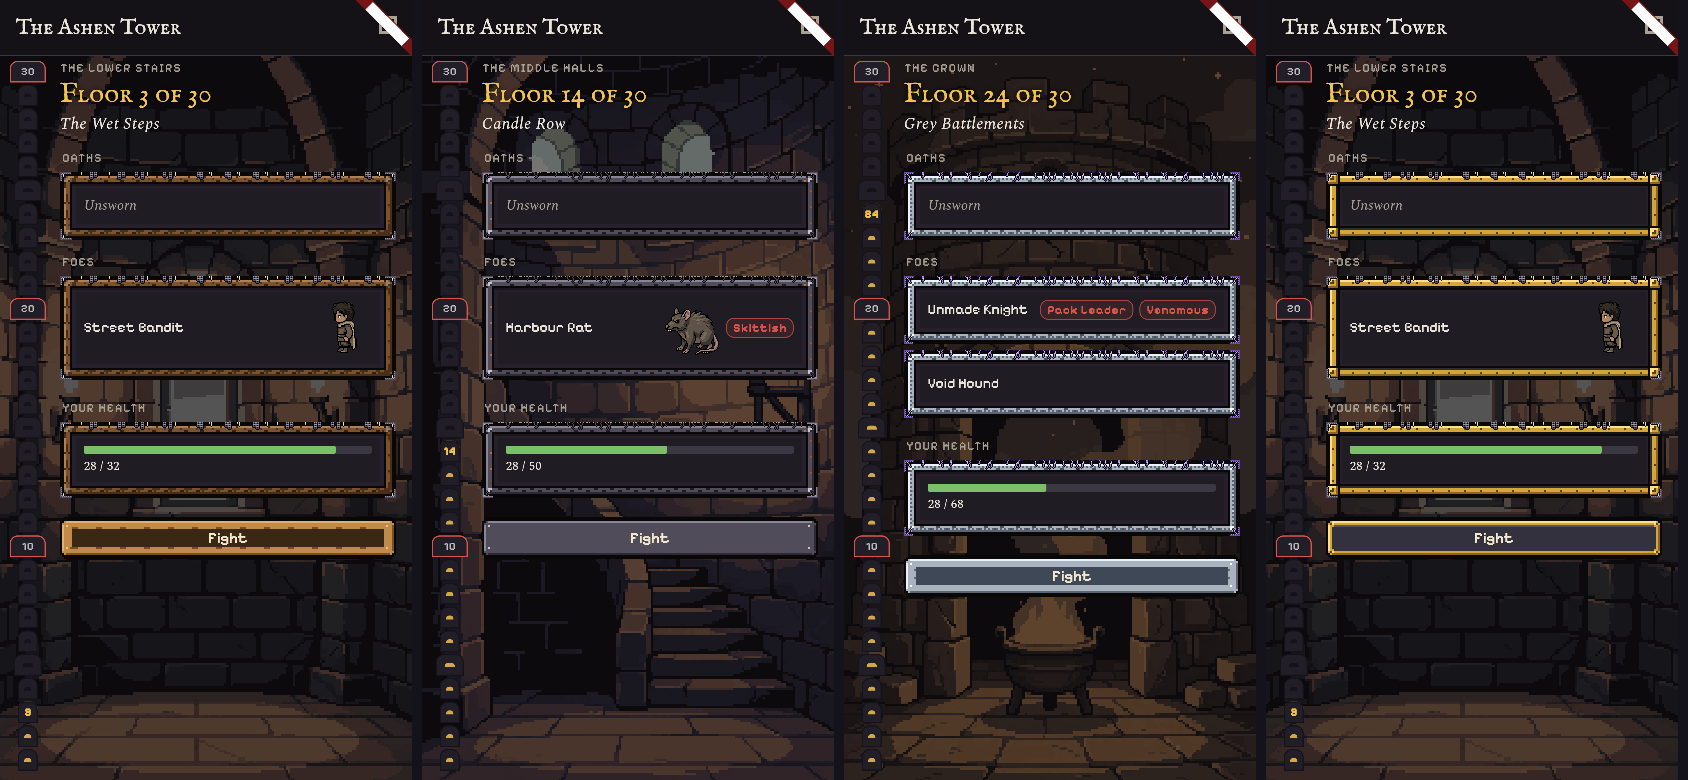
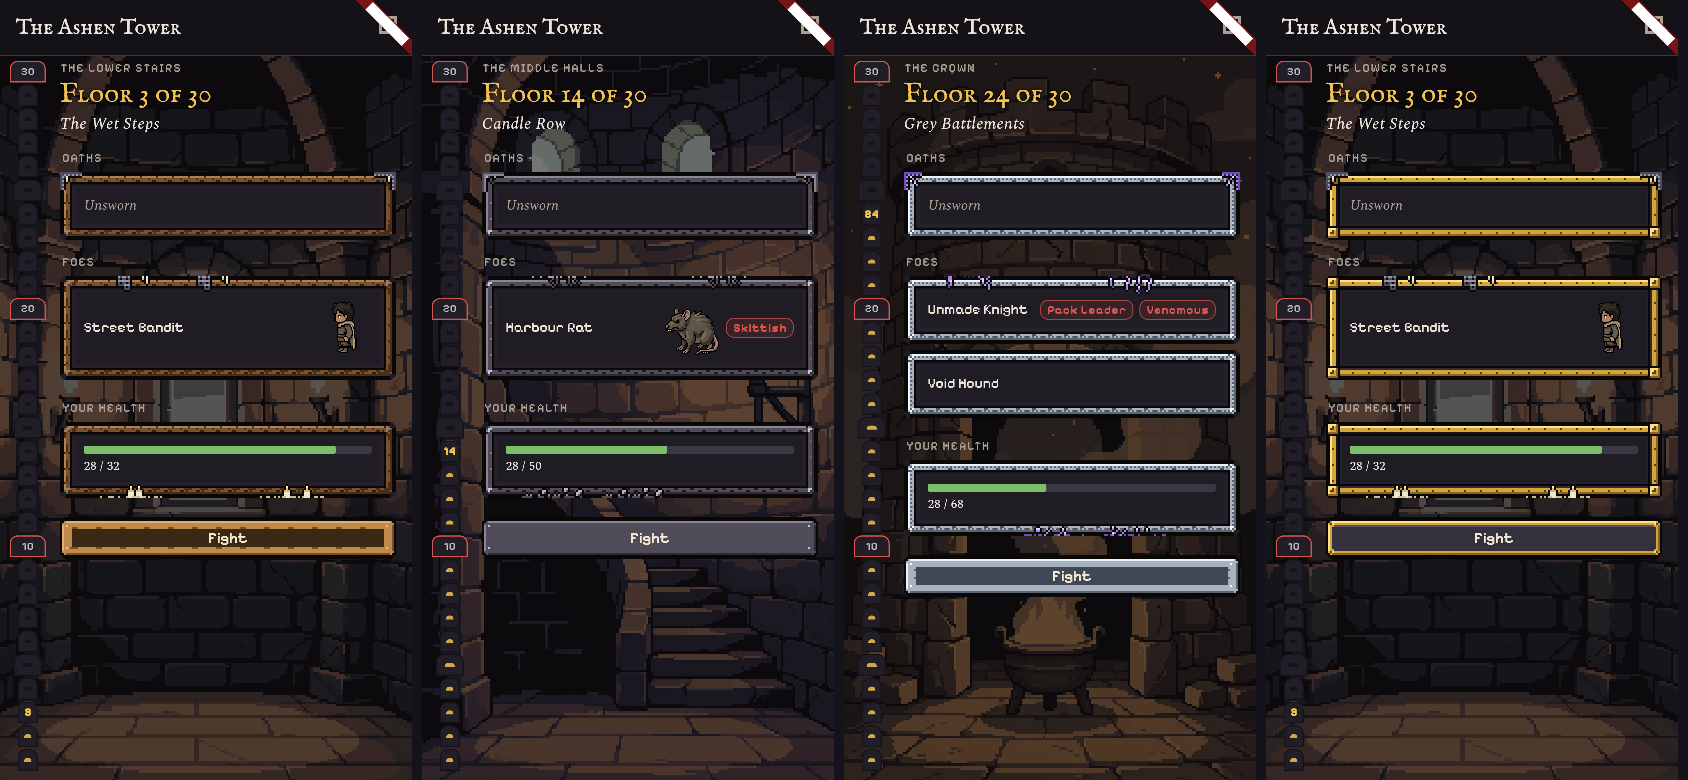
Tower decorations: 2x, a few pieces per screen (corners on the oaths, top pieces on the first foe, bottom pieces on the health)
Claude-Session: https://claude.ai/code/session_019ETFw2Y7wpHSXWG5mmACty

diff --git a/lib/theme/frame_style.dart b/lib/theme/frame_style.dart
@@ -83,12 +83,17 @@ class FrameStyle extends ThemeExtension<FrameStyle> {
     this.env = EnvDecor.none,
     this.compactScale = 1,
     this.largeScale = 2,
+    this.seed = 0,
   });
 
   final FrameMaterial material;
   final EnvDecor env;
   final double compactScale;
   final double largeScale;
+
+  /// Picks which slots the decorations stand in (the Tower's floor), so they
+  /// are stable for a floor and differ from one to the next.
+  final int seed;
 
   static FrameStyle of(BuildContext context) =>
       Theme.of(context).extension<FrameStyle>() ?? const FrameStyle();
@@ -99,12 +104,14 @@ class FrameStyle extends ThemeExtension<FrameStyle> {
     EnvDecor? env,
     double? compactScale,
     double? largeScale,
+    int? seed,
   }) =>
       FrameStyle(
         material: material ?? this.material,
         env: env ?? this.env,
         compactScale: compactScale ?? this.compactScale,
         largeScale: largeScale ?? this.largeScale,
+        seed: seed ?? this.seed,
       );
 
   @override
@@ -182,6 +189,32 @@ abstract final class FrameImages {
   }
 }
 
+/// Which decorations a frame wears: the four corner pieces, a number of
+/// top-edge pieces hanging from the top (-1: the old fringe all along it) and
+/// a number of bottom-edge pieces rising from the bottom. A screen gives each
+/// panel its own share, so a few panels are decorated and the rest stay clean.
+@immutable
+class EnvParts {
+  const EnvParts({this.corners = false, this.top = 0, this.bottom = 0});
+
+  static const EnvParts none = EnvParts();
+  static const EnvParts fringe = EnvParts(corners: true, top: -1);
+
+  final bool corners;
+  final int top;
+  final int bottom;
+
+  @override
+  bool operator ==(Object other) =>
+      other is EnvParts &&
+      other.corners == corners &&
+      other.top == top &&
+      other.bottom == bottom;
+
+  @override
+  int get hashCode => Object.hash(corners, top, bottom);
+}
+
 /// A frame: the piece's 9-slice drawn around the box, corners as they are,
 /// edges tiled, then the environment's decorations on the top edge and
 /// corners. The fill is the caller's (`Card.color`, `ShapeDecoration.color`).
@@ -195,6 +228,7 @@ class FrameBorder extends OutlinedBorder {
     this.fillCenter = false,
     this.envPixel = 1,
     this.plate,
+    this.envParts = EnvParts.fringe,
   }) : super(side: BorderSide.none);
 
   final FramePiece piece;
@@ -214,6 +248,9 @@ class FrameBorder extends OutlinedBorder {
 
   /// Picks the decoration variants, so a panel never changes between frames.
   final int seed;
+
+  /// Which of the decorations this frame wears.
+  final EnvParts envParts;
 
   /// A flat colour laid on the middle of a button over the art, so its label
   /// reads on the grain of a wood button (no art is redrawn).
@@ -341,26 +378,61 @@ class FrameBorder extends OutlinedBorder {
     ui.Image? sprite(String part, int variant) =>
         FrameImages.image('env', '${env.file}_${part}_${variant % 3}');
 
-    // The top edge: 32 x 10 tiles side by side overlapping by 4 px, the
-    // variant cycling; kept clear of the corners (16 px each side).
+    // The span the top and bottom pieces may stand in, clear of the corners.
     final cornerW = 16 * k;
     final from = rect.left + cornerW;
     final to = rect.right - cornerW;
-    if (to - from > 24 * k) {
-      var i = 0;
-      for (var x = from; x < to - 0.01; x += 28 * k, i++) {
-        final img = sprite('top', _hash(i));
-        if (img == null) continue;
-        final w = (to - x).clamp(0.0, 32 * k);
-        canvas.drawImageRect(
-          img,
-          Rect.fromLTWH(0, 0, w / k, img.height.toDouble()),
-          Rect.fromLTWH(x, rect.top, w, img.height * k),
-          paint,
-        );
+
+    if (envParts.top == -1) {
+      // The fringe: 32 x 10 tiles side by side overlapping by 4 px.
+      if (to - from > 24 * k) {
+        var i = 0;
+        for (var x = from; x < to - 0.01; x += 28 * k, i++) {
+          final img = sprite('top', _hash(i));
+          if (img == null) continue;
+          final w = (to - x).clamp(0.0, 32 * k);
+          canvas.drawImageRect(
+            img,
+            Rect.fromLTWH(0, 0, w / k, img.height.toDouble()),
+            Rect.fromLTWH(x, rect.top, w, img.height * k),
+            paint,
+          );
+        }
       }
+    } else {
+      // A few whole pieces, in slots picked by the seed (so a panel never
+      // changes between frames): top ones hang from the top edge, bottom
+      // ones rise from the bottom edge.
+      void pieces(String part, int count, int salt, bool bottom) {
+        final slotW = 40 * k;
+        final slots = ((to - from) / slotW).floor();
+        if (count <= 0 || slots < 1) return;
+        final taken = <int>{};
+        for (var n = 0; n < count && taken.length < slots; n++) {
+          var slot = _hash(salt + n * 7) % slots;
+          while (taken.contains(slot)) {
+            slot = (slot + 1) % slots;
+          }
+          taken.add(slot);
+          final img = sprite(part, _hash(salt + 50 + n));
+          if (img == null) continue;
+          final x = from + slot * slotW + (slotW - 32 * k) / 2;
+          final h = img.height * k;
+          canvas.drawImageRect(
+            img,
+            Rect.fromLTWH(0, 0, img.width.toDouble(), img.height.toDouble()),
+            Rect.fromLTWH(
+                x, bottom ? rect.bottom - h : rect.top, img.width * k, h),
+            paint,
+          );
+        }
+      }
+
+      pieces('top', envParts.top, 200, false);
+      pieces('bottom', envParts.bottom, 300, true);
     }
     // The corners: the top-left sprite, mirrored for the others.
+    if (!envParts.corners) return;
     for (var c = 0; c < 4; c++) {
       final img = sprite('corner', _hash(100 + c));
       if (img == null) continue;
@@ -387,6 +459,7 @@ class FrameBorder extends OutlinedBorder {
     int? seed,
     bool? fillCenter,
     Color? plate,
+    EnvParts? envParts,
   }) =>
       FrameBorder(
         piece: piece ?? this.piece,
@@ -397,6 +470,7 @@ class FrameBorder extends OutlinedBorder {
         fillCenter: fillCenter ?? this.fillCenter,
         envPixel: envPixel,
         plate: plate ?? this.plate,
+        envParts: envParts ?? this.envParts,
       );
 
   @override
@@ -408,9 +482,10 @@ class FrameBorder extends OutlinedBorder {
       other.pixel == pixel &&
       other.seed == seed &&
       other.fillCenter == fillCenter &&
-      other.plate == plate;
+      other.plate == plate &&
+      other.envParts == envParts;
 
   @override
-  int get hashCode =>
-      Object.hash(piece, material, env, pixel, seed, fillCenter, plate);
+  int get hashCode => Object.hash(
+      piece, material, env, pixel, seed, fillCenter, plate, envParts);
 }

diff --git a/lib/screens/tower/tower_floor_screen.dart b/lib/screens/tower/tower_floor_screen.dart
@@ -26,6 +26,7 @@ import 'tower_offer_view.dart';
 import 'tower_providers.dart';
 import 'tower_spoils_view.dart';
 import '../../widgets/ink_chip.dart';
+import '../../theme/frame_style.dart' show EnvParts;
 import '../../widgets/ink_panel.dart';
 import '../../widgets/ink_confirm.dart';
 import '../../widgets/ink_loading.dart';
@@ -271,6 +272,9 @@ class _FloorIntro extends ConsumerWidget {
             padding: const EdgeInsets.only(bottom: 6),
             child: InkPanel(
               lit: danger,
+              decor: id == floor.enemyIds.first
+                  ? const EnvParts(top: 2)
+                  : EnvParts.none,
               child: Row(
                 children: [
                   Expanded(
@@ -299,6 +303,7 @@ class _FloorIntro extends ConsumerWidget {
           ),
         InkLabel(tr(ref, 'tower_your_health')),
         InkPanel(
+          decor: const EnvParts(bottom: 2),
           child: Column(
             crossAxisAlignment: CrossAxisAlignment.start,
             children: [
@@ -335,6 +340,7 @@ class _SwornRow extends ConsumerWidget {
     final sworn = run.clanIds;
     return InkPanel(
       key: const Key('tower_sworn'),
+      decor: const EnvParts(corners: true),
       child: sworn.isEmpty
           ? Text(tr(ref, 'tower_unsworn'),
               style: theme.textTheme.bodyMedium?.copyWith(

diff --git a/lib/widgets/ink_panel.dart b/lib/widgets/ink_panel.dart
@@ -17,6 +17,7 @@ class InkPanel extends StatelessWidget {
     this.dim = false,
     this.onTap,
     this.padding = const EdgeInsets.all(12),
+    this.decor = EnvParts.none,
   });
 
   final Widget child;
@@ -24,6 +25,10 @@ class InkPanel extends StatelessWidget {
   final bool dim;
   final VoidCallback? onTap;
   final EdgeInsets padding;
+
+  /// The place's decorations this panel wears (none by default): a screen
+  /// gives a few of its panels a share, so the frames stay clean otherwise.
+  final EnvParts decor;
 
   @override
   Widget build(BuildContext context) {
@@ -40,9 +45,11 @@ class InkPanel extends StatelessWidget {
           shape: FrameBorder(
               piece: FramePiece.panelDark,
               material: f.material,
-              env: f.env,
+              env: decor == EnvParts.none ? EnvDecor.none : f.env,
+              envParts: decor,
+              envPixel: f.compactScale,
               pixel: f.compactScale,
-              seed: padding.hashCode ^ lit.hashCode),
+              seed: f.seed * 31 + decor.hashCode),
         ),
         child: Opacity(opacity: dim ? .5 : 1, child: child),
       );

diff --git a/lib/screens/tower/tower_look.dart b/lib/screens/tower/tower_look.dart
@@ -69,7 +69,11 @@ class TowerNight extends ConsumerWidget {
       builder: (context, _, __) => Theme(
         data: buildAppTheme(palette.schemeFor(Brightness.dark),
             frames: FrameImages.ready(material, env)
-                ? FrameStyle(material: material, env: env, compactScale: 2)
+                ? FrameStyle(
+                    material: material,
+                    env: env,
+                    compactScale: 2,
+                    seed: floorNow)
                 : null),
         child: TowerPanelStyle(child: child),
       ),
